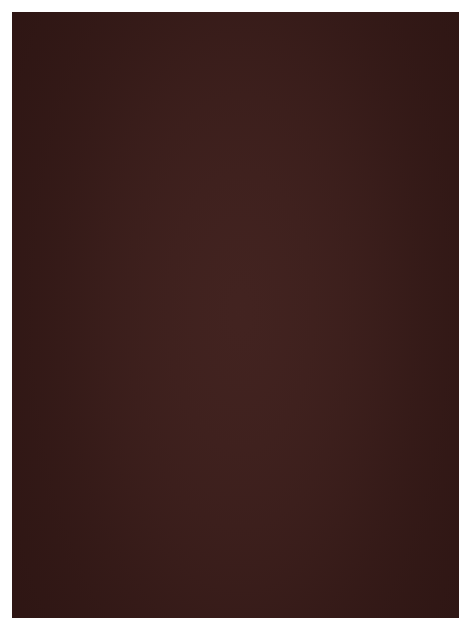
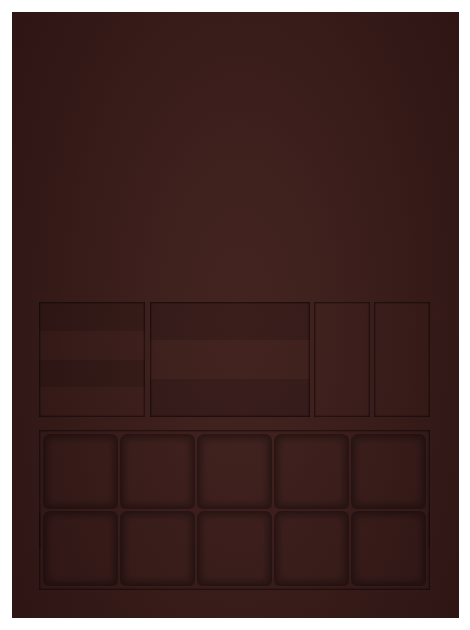
更新UI

Changed region(s): [[0.7745, 0.4825, 0.8043, 0.6635], [0.6553, 0.4825, 0.6851, 0.6635], [0.2979, 0.4825, 0.3277, 0.6635]]

diff --git a/src/engine/LayoutGroup.ts b/src/engine/LayoutGroup.ts
@@ -9,6 +9,8 @@ export class LayoutGroup extends Behaviour {
     layoutType: 'horizontal' | 'vertical' = 'vertical';
     @number()
     spacing = 100;
+    @string()
+    numPerLine = undefined;
 
     onUpdate(): void {
         this.updateChildrenPosition();
@@ -17,18 +19,24 @@ export class LayoutGroup extends Behaviour {
     updateChildrenPosition() {
         if (this.layoutType === 'vertical') {
             this.gameObject.children.forEach((child, index) => {
-                child.getBehaviour(Transform).y = index * this.spacing;
+                if(this.numPerLine !== undefined){
+                    child.getBehaviour(Transform).y = index%Number(this.numPerLine) * this.spacing;
+                    child.getBehaviour(Transform).x = Math.floor(index / Number(this.numPerLine)) * this.spacing;
+                }
+                else{
+                    child.getBehaviour(Transform).y = index * this.spacing;
+                }
             });
         } else {
             this.gameObject.children.forEach((child, index) => {
-                child.getBehaviour(Transform).x = index * this.spacing;
+                if(this.numPerLine !== undefined){
+                    child.getBehaviour(Transform).x = index%Number(this.numPerLine) * this.spacing;
+                    child.getBehaviour(Transform).y = Math.floor(index / Number(this.numPerLine)) * this.spacing;
+                }
+                else{
+                    child.getBehaviour(Transform).x = index * this.spacing;
+                }
             });
         }
-    }
-
-    clipChildren() {
-        this.gameObject.children.forEach(child => {
-            
-        });
     }
 }
